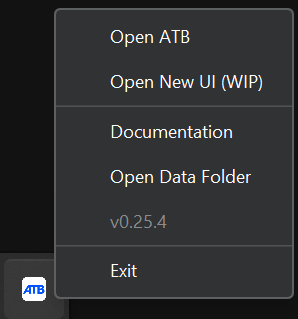
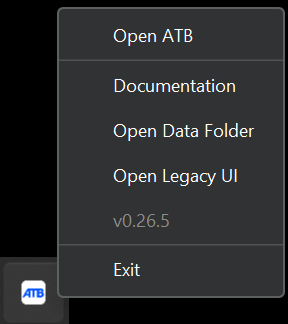
use new UI for docs

diff --git a/_docs/en/quick-start.md b/_docs/en/quick-start.md
@@ -48,19 +48,16 @@ Select `Open ATB` to open API Test Base UI in your default browser.
 ## Ad Hoc Invocation
 If you only want to invoke an API and see its response, just need to create a test step in a test case.
 
-Right click on a folder in the tree, select Create Test Case and give it a name.
+Right click anywhere in the left side pane, select Create Test Case, give it a name and press Enter. The test case is created, like the following.
 
 ![New Ad Hoc Test Case](../../screenshots/basic-use/new-ad-hoc-test-case.png)
 
-Suppose you want to invoke a REST API. On the right pane of the screen, under the Test Steps tab, click the `Create` dropdown button and select `HTTP Step`. The test step edit view opens.
+Suppose you want to invoke a REST API. On the right pane of the screen, under the Test Steps tab, click the `+ Test Step` dropdown button and select `HTTP`. Give the test step a name, and press Enter, like the following.
 
-Under the Basic Info tab, enter the test step name. Under the Invocation tab, select Method like `GET`, enter a URL like `http://localhost:8090/api/articles` (an API Test Base bundled API) and click the `Invoke` button.
+![New Ad Hoc Test Step](../../screenshots/basic-use/new-ad-hoc-test-step.png)
+
+Click the test step name to open the test step edit view.
+
+Under the Invocation tab, select Method like `GET`, enter a URL like `http://localhost:8090/api/articles` (an API Test Base bundled API) and click the `Invoke` button.
 
 ![Ad Hoc HTTP Invocation](../../screenshots/basic-use/ad-hoc-http-invocation.png)
-
-## New UI
-A new UI, still under development, is available as a preview. Check the `Open New UI (WIP)` item in the ATB system tray menu. Here is a sample screenshot:
-
-![New UI Glance](../../screenshots/new-ui-glance.png)
-
-
